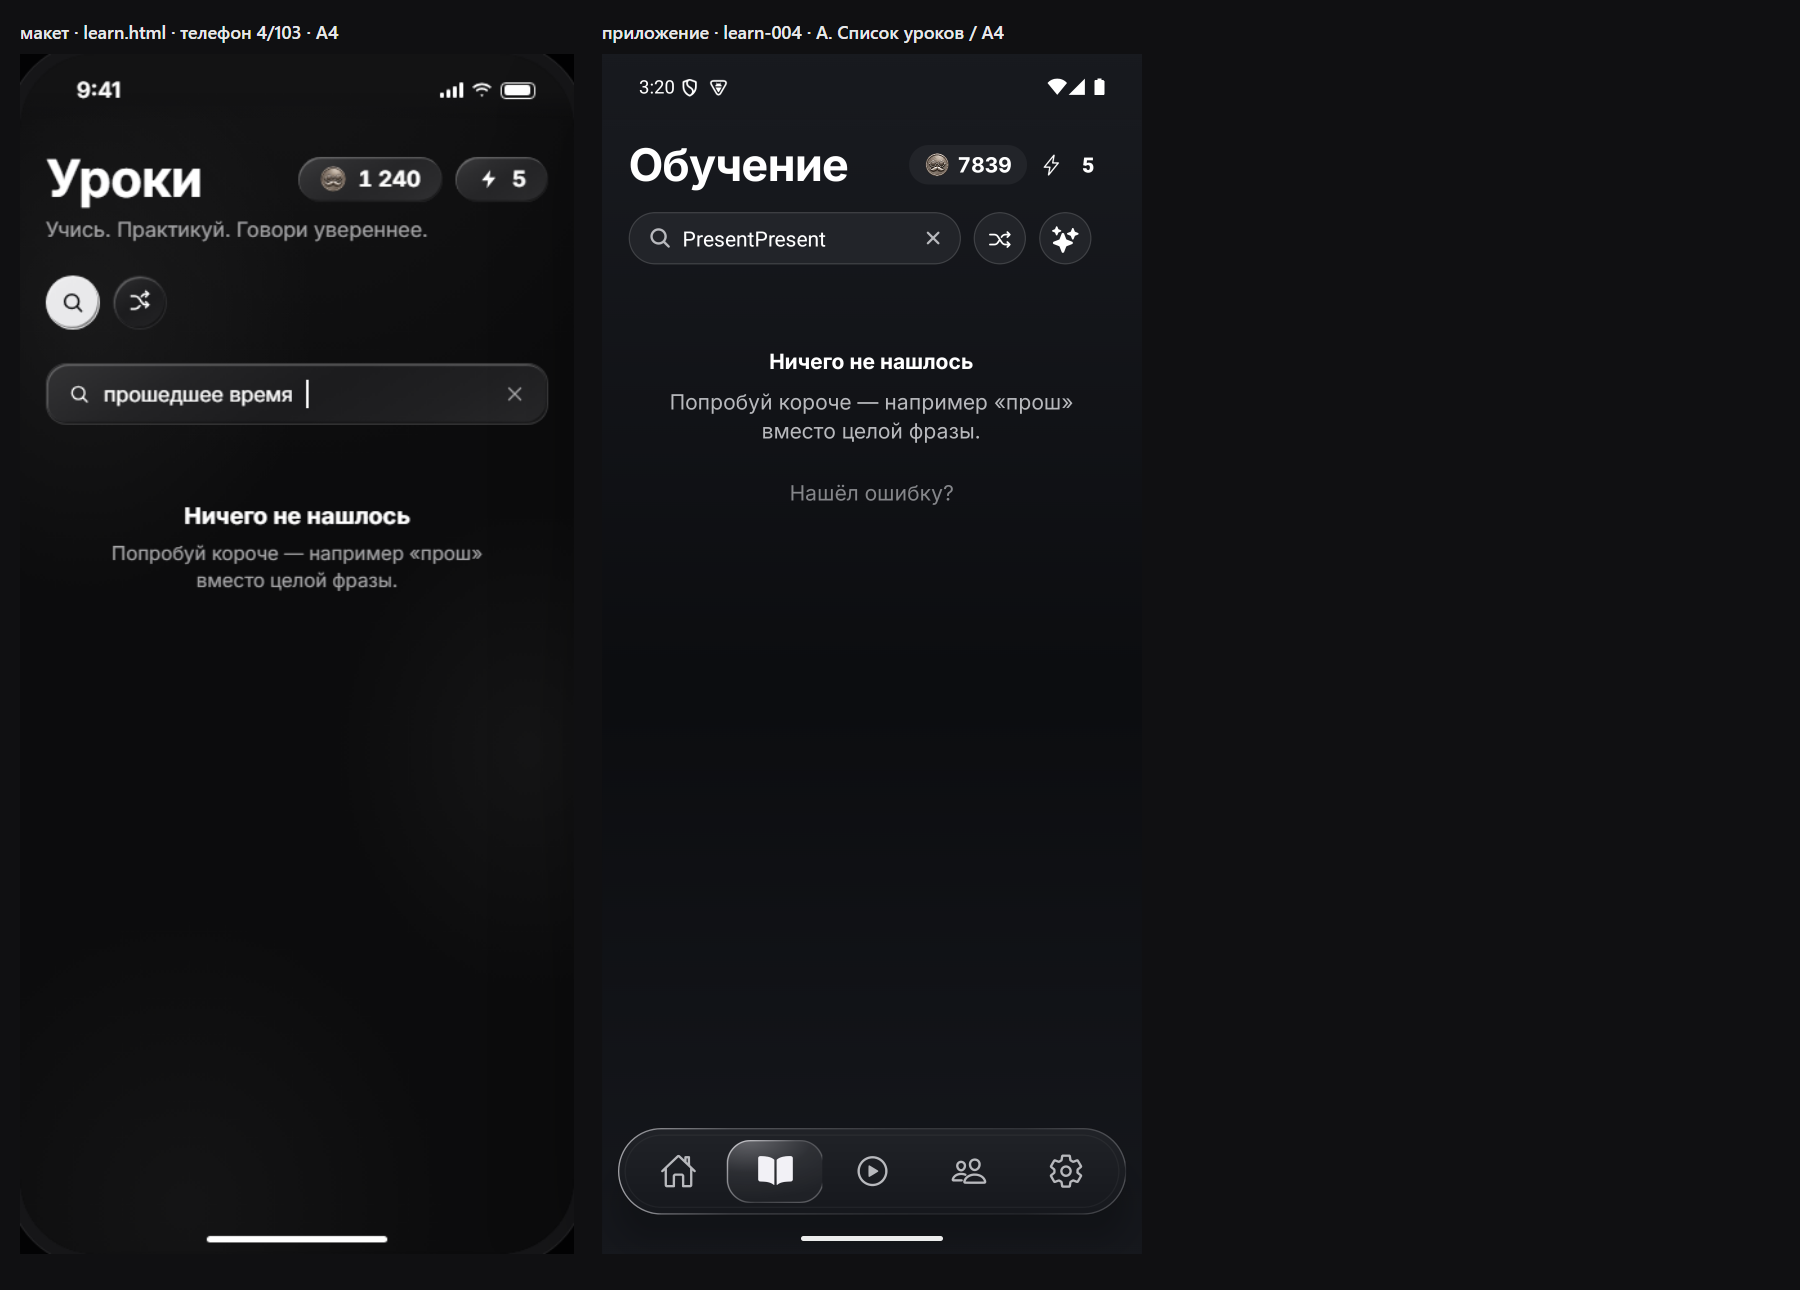
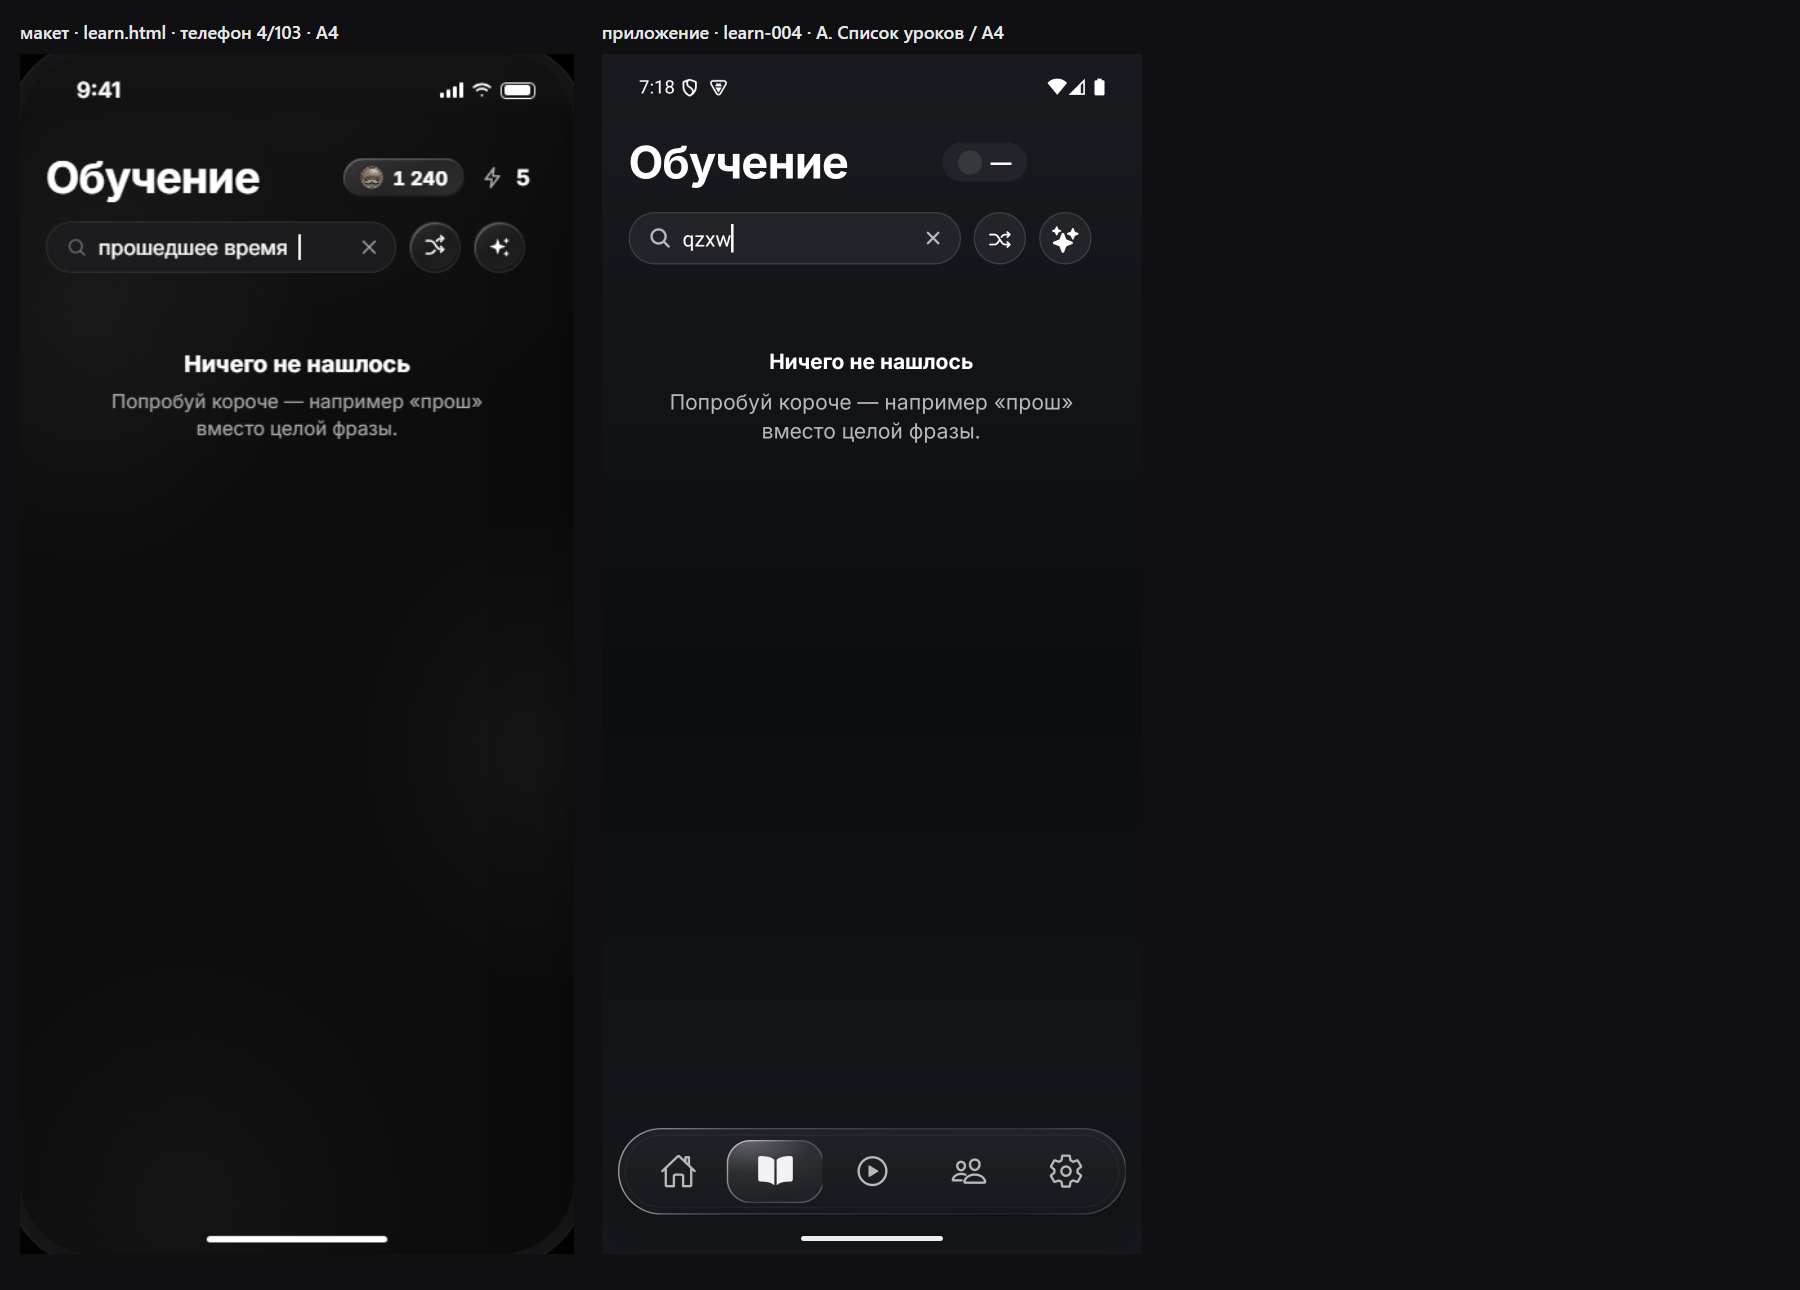
parity(learn-004): без «Нашёл ошибку?» при пустом поиске; склейки learn-003/004

diff --git a/app/(tabs)/lessons.tsx b/app/(tabs)/lessons.tsx
@@ -5609,6 +5609,9 @@ export default function LessonsTab({
               // теперь либо полный, либо честно ограничен доступом, а не
               // «скоро продолжится»). Кнопка жалобы на список уроков остаётся.
               ListFooterComponent={
+                // зачем (сверка learn-004, learn.html A4): при пустом результате поиска в макете под
+                // «Ничего не нашлось» только совет — жалобу на список уроков тут не показываем.
+                legacyFilteredListData.length === 0 && legacyLessonQuery.trim() ? null : (
                 <>
                   <View style={{ alignItems: "center", paddingVertical: 20 }}>
                     <ReportErrorButton
@@ -5628,6 +5631,7 @@ export default function LessonsTab({
                     />
                   </View>
                 </>
+                )
               }
               renderItem={({ item, index: i }) => {
                 const scaleAnim = itemAnims[i];

diff --git a/docs/phraseman-2.0/evidence/parity/SVERKA_LOG.md b/docs/phraseman-2.0/evidence/parity/SVERKA_LOG.md
@@ -142,3 +142,6 @@ practice-002 «верный ответ» не снят: таймер блица 
 Файлы: components/lessons/LessonsListGlassCard.tsx, LessonsListGlassKit.tsx
 - ИСПРАВЛЕНО (сверка, LessonsListGlassCard.tsx): карточки уроков — стекло kit.css (KitGlassLayer: блик, светлая кромка сверху, тёмная снизу) + тень --lg-drop; закрытый урок — название приглушено (текст темы .82). Склейка learn-001 переснята после reload.
 - ОСТАЛОСЬ: заливка карточки светлее макета (#151517) — это токен темы opaqueCard «Затмения» (сессия 4 «Темы»); 🔴 после холодного старта пилюля монет показывает «—» (баланс не из кэша — нарушение «мгновенного открытия»).
+
+### learn-003 · Поиск открыт (новый learn.html) — геометрия совпадает; остались: заливка карточек светлее (токен темы), замок контурный вместо залитого, монета серая вместо бронзовой. Данные: урок 3 закрыт у тестового аккаунта.
+### learn-004 · Ничего не нашлось — ИСПРАВЛЕНО: убрана лишняя «Нашёл ошибку?» под советом при пустом поиске (app/(tabs)/lessons.tsx, ListFooterComponent). После этого совпадает с макетом; остаётся только «—» в пилюле монет сразу после холодного старта (🔴, уже передано).

diff --git a/docs/work/tasks/parity-kit-liquid-glass.md b/docs/work/tasks/parity-kit-liquid-glass.md
@@ -48,3 +48,6 @@ Governance-ID: TG-D731AF26BED5
 
 Governance-ID: TG-B42BE230DCA8
 (стекло карточек «Обучения» — components/lessons/LessonsListGlassCard.tsx, сторож lessons_list_liquid_glass_source_contract PASS)
+
+Governance-ID: TG-D64A3791D1A1
+(learn-004: футер «Нашёл ошибку?» скрыт при пустом поиске — app/(tabs)/lessons.tsx; сторожа lessons_* PASS)
